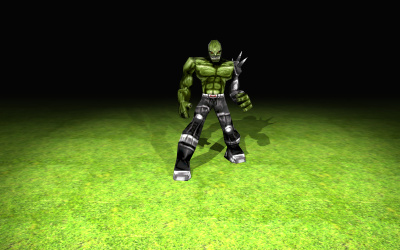
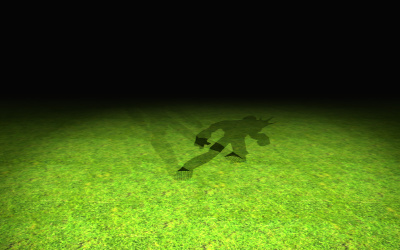
WebGLRenderer: Disable usage of SRGB8_ALPHA8. (#22759)
* WebGLRenderer: Disable usage of SRGB8_ALPHA8 .

* Update screenshot.

* Clean up.

diff --git a/src/renderers/webgl/WebGLTextures.js b/src/renderers/webgl/WebGLTextures.js
@@ -1,4 +1,4 @@
-import { LinearFilter, LinearMipmapLinearFilter, LinearMipmapNearestFilter, NearestFilter, NearestMipmapLinearFilter, NearestMipmapNearestFilter, RGBFormat, RGBAFormat, DepthFormat, DepthStencilFormat, UnsignedShortType, UnsignedIntType, UnsignedInt248Type, FloatType, HalfFloatType, MirroredRepeatWrapping, ClampToEdgeWrapping, RepeatWrapping, sRGBEncoding } from '../../constants.js';
+import { LinearFilter, LinearMipmapLinearFilter, LinearMipmapNearestFilter, NearestFilter, NearestMipmapLinearFilter, NearestMipmapNearestFilter, RGBFormat, RGBAFormat, DepthFormat, DepthStencilFormat, UnsignedShortType, UnsignedIntType, UnsignedInt248Type, FloatType, HalfFloatType, MirroredRepeatWrapping, ClampToEdgeWrapping, RepeatWrapping } from '../../constants.js';
 import * as MathUtils from '../../math/MathUtils.js';
 import { createElementNS } from '../../utils.js';
 
@@ -128,7 +128,7 @@ function WebGLTextures( _gl, extensions, state, properties, capabilities, utils,
 
 	}
 
-	function getInternalFormat( internalFormatName, glFormat, glType, encoding ) {
+	function getInternalFormat( internalFormatName, glFormat, glType/*, encoding*/ ) {
 
 		if ( isWebGL2 === false ) return glFormat;
 
@@ -162,7 +162,9 @@ function WebGLTextures( _gl, extensions, state, properties, capabilities, utils,
 
 			if ( glType === _gl.FLOAT ) internalFormat = _gl.RGBA32F;
 			if ( glType === _gl.HALF_FLOAT ) internalFormat = _gl.RGBA16F;
-			if ( glType === _gl.UNSIGNED_BYTE ) internalFormat = ( encoding === sRGBEncoding ) ? _gl.SRGB8_ALPHA8 : _gl.RGBA8;
+			//if ( glType === _gl.UNSIGNED_BYTE ) internalFormat = ( encoding === sRGBEncoding ) ? _gl.SRGB8_ALPHA8 : _gl.RGBA8;
+			if ( glType === _gl.UNSIGNED_BYTE ) internalFormat = _gl.RGBA8;
+
 
 		}
 

diff --git a/src/renderers/webgl/WebGLPrograms.js b/src/renderers/webgl/WebGLPrograms.js
@@ -1,4 +1,4 @@
-import { BackSide, DoubleSide, CubeUVRefractionMapping, CubeUVReflectionMapping, LinearEncoding, sRGBEncoding, ObjectSpaceNormalMap, TangentSpaceNormalMap, NoToneMapping, RGBAFormat, UnsignedByteType } from '../../constants.js';
+import { BackSide, DoubleSide, CubeUVRefractionMapping, CubeUVReflectionMapping, LinearEncoding, ObjectSpaceNormalMap, TangentSpaceNormalMap, NoToneMapping } from '../../constants.js';
 import { WebGLProgram } from './WebGLProgram.js';
 import { ShaderLib } from '../shaders/ShaderLib.js';
 import { UniformsUtils } from '../shaders/UniformsUtils.js';
@@ -108,11 +108,11 @@ function WebGLPrograms( renderer, cubemaps, cubeuvmaps, extensions, capabilities
 
 		}
 
-		if ( isWebGL2 && map && map.isTexture && map.format === RGBAFormat && map.type === UnsignedByteType && map.encoding === sRGBEncoding ) {
+		/* if ( isWebGL2 && map && map.isTexture && map.format === RGBAFormat && map.type === UnsignedByteType && map.encoding === sRGBEncoding ) {
 
 			encoding = LinearEncoding; // disable inline decode for sRGB textures in WebGL 2
 
-		}
+		} */
 
 		return encoding;
 

diff --git a/src/extras/PMREMGenerator.js b/src/extras/PMREMGenerator.js
@@ -10,7 +10,6 @@ import {
 	RGBDEncoding,
 	RGBEEncoding,
 	RGBEFormat,
-	RGBAFormat,
 	RGBM16Encoding,
 	RGBM7Encoding,
 	UnsignedByteType,
@@ -350,7 +349,7 @@ class PMREMGenerator {
 
 	_setEncoding( uniform, texture ) {
 
-		if ( this._renderer.capabilities.isWebGL2 === true && texture.format === RGBAFormat && texture.type === UnsignedByteType && texture.encoding === sRGBEncoding ) {
+		/* if ( this._renderer.capabilities.isWebGL2 === true && texture.format === RGBAFormat && texture.type === UnsignedByteType && texture.encoding === sRGBEncoding ) {
 
 			uniform.value = ENCODINGS[ LinearEncoding ];
 
@@ -358,7 +357,9 @@ class PMREMGenerator {
 
 			uniform.value = ENCODINGS[ texture.encoding ];
 
-		}
+		} */
+
+		uniform.value = ENCODINGS[ texture.encoding ];
 
 	}
 
